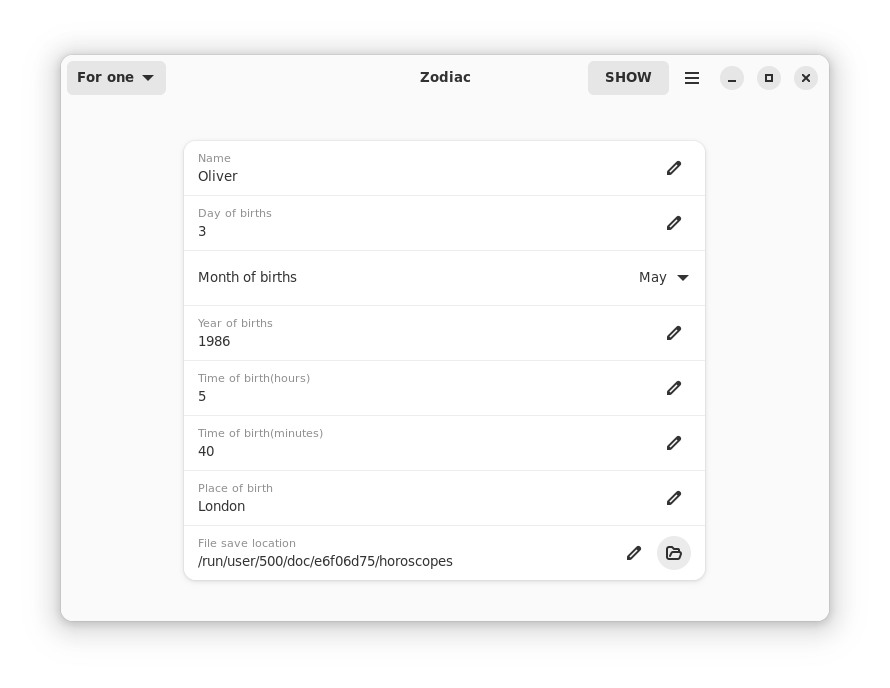
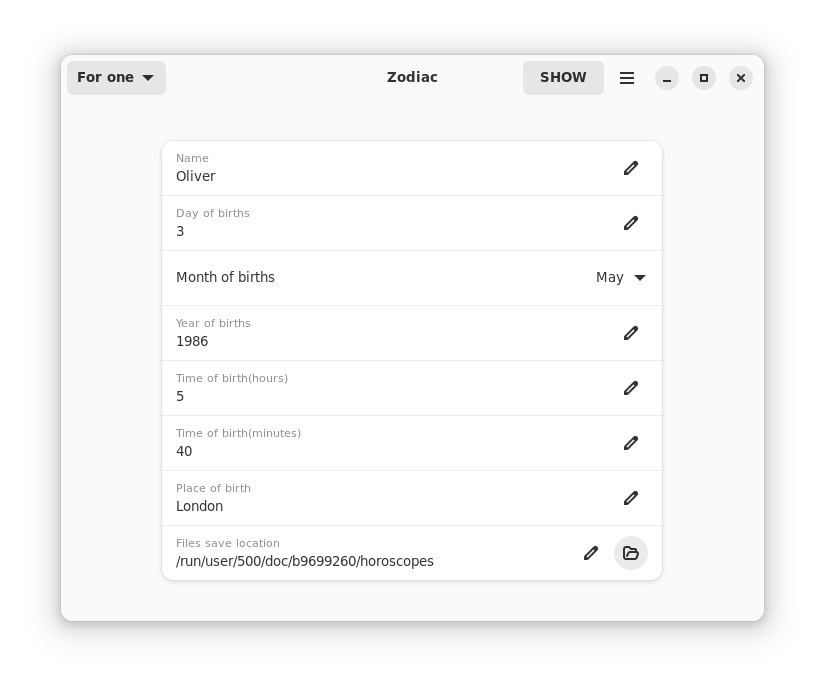
Add files via upload

diff --git a/src/window.py b/src/window.py
@@ -19,6 +19,7 @@
 
 from gi.repository import Adw
 from gi.repository import Gtk
+from gi.repository import Gdk
 from gi.repository import Gio
 from gi.repository import GLib
 from datetime import datetime
@@ -31,7 +32,7 @@ class ZodiacWindow(Adw.ApplicationWindow):
 
     drop_down = Gtk.Template.Child()
     show_button = Gtk.Template.Child()
-    show_image_button = Gtk.Template.Child()
+    open_button = Gtk.Template.Child()
     back_button = Gtk.Template.Child()
     next_button = Gtk.Template.Child()
     save_button = Gtk.Template.Child()
@@ -58,13 +59,13 @@ class ZodiacWindow(Adw.ApplicationWindow):
     entry_place2 = Gtk.Template.Child()
     combo2 = Gtk.Template.Child()
 
-    path_to_file = ""
+    path = ""
 
     def __init__(self, **kwargs):
         super().__init__(**kwargs)
 
         self.show_button.connect("clicked", self.on_show_clicked)
-        self.show_image_button.connect("clicked", self.show_image)
+        self.open_button.connect("clicked", self.on_open_clicked)
         self.back_button.connect("clicked", self.on_back_clicked)
         self.next_button.connect("clicked", self.on_next_clicked)
         self.save_button.connect("clicked", self.show_open_dialog)
@@ -72,7 +73,7 @@ class ZodiacWindow(Adw.ApplicationWindow):
 
         self.back_button.set_visible(False)
         self.next_button.set_visible(False)
-        self.show_image_button.set_visible(False)
+        self.open_button.set_visible(False)
 
         self.settings = Gio.Settings(schema_id="io.github.alexkdeveloper.zodiac")
 
@@ -120,6 +121,8 @@ class ZodiacWindow(Adw.ApplicationWindow):
            self.set_toast(_("Enter valid date and time of birth values"))
            return
 
+        report_text = ""
+
         if self.drop_down.get_selected() == 0:
            subject = AstrologicalSubject(name, year, month, day, hours, minutes, place)
            chart = KerykeionChartSVG(subject, chart_type="Natal")
@@ -158,34 +161,37 @@ class ZodiacWindow(Adw.ApplicationWindow):
 
            subject_names = name+name2
 
-        path = self.entry_save.get_text()
+        self.path = self.entry_save.get_text()
 
-        path_to_report = path+"/"+subject_names+"Report.txt"
+        path_to_report = self.path+"/"+subject_names+"Report.txt"
 
         with open(path_to_report, 'w') as f:
              f.write(report_text)
 
-        chart.set_output_directory(Path(path))
+        chart.set_output_directory(Path(self.path))
         chart.makeSVG()
 
-        self.path_to_file = path+"/"+name+chart.chart_type+"Chart.svg"
+        path_to_chart = self.path+"/"+name+chart.chart_type+"Chart.svg"
 
-        if Path(self.path_to_file).exists():
-            self.set_toast(_("File saved successfully"))
-        else:
-            self.set_toast(_("Failed to save file"))
-            return
-
-        self.svg.set_from_file(self.path_to_file)
+        self.svg.set_from_file(path_to_chart)
 
         self.text.set_text(report_text)
+
+        if Path(path_to_chart).exists() and Path(path_to_report).exists():
+            self.set_toast(_("Files saved successfully"))
+        elif not Path(path_to_chart).exists() and Path(path_to_report).exists():
+            self.set_toast(_("Failed to save svg file"))
+        elif Path(path_to_chart).exists() and not Path(path_to_report).exists():
+            self.set_toast(_("Failed to save txt file"))
+        else:
+            self.set_toast(_("Failed to save files"))
 
         self.stack.set_visible_child(self.result_page)
         self.back_button.set_visible(True)
         self.drop_down.set_visible(False)
         self.next_button.set_visible(False)
         self.show_button.set_visible(False)
-        self.show_image_button.set_visible(True)
+        self.open_button.set_visible(True)
 
     def is_valid_date_time(self, day, month, year, hours, minutes):
         try:
@@ -201,7 +207,7 @@ class ZodiacWindow(Adw.ApplicationWindow):
            self.next_button.set_visible(False)
            self.drop_down.set_visible(True)
            self.show_button.set_visible(True)
-           self.show_image_button.set_visible(False)
+           self.open_button.set_visible(False)
         else:
            if self.stack.get_visible_child() == self.result_page:
               self.stack.set_visible_child(self.data_page2)
@@ -209,14 +215,14 @@ class ZodiacWindow(Adw.ApplicationWindow):
               self.next_button.set_visible(False)
               self.drop_down.set_visible(False)
               self.show_button.set_visible(True)
-              self.show_image_button.set_visible(False)
+              self.open_button.set_visible(False)
            else:
               self.stack.set_visible_child(self.data_page)
               self.back_button.set_visible(False)
               self.next_button.set_visible(True)
               self.drop_down.set_visible(True)
               self.show_button.set_visible(False)
-              self.show_image_button.set_visible(False)
+              self.open_button.set_visible(False)
 
     def on_next_clicked(self, widget):
         self.stack.set_visible_child(self.data_page2)
@@ -224,27 +230,10 @@ class ZodiacWindow(Adw.ApplicationWindow):
         self.next_button.set_visible(False)
         self.drop_down.set_visible(False)
         self.show_button.set_visible(True)
-        self.show_image_button.set_visible(False)
+        self.open_button.set_visible(False)
 
-    def show_image(self, widget):
-        win = Adw.Window()
-        win.set_title(_("Show Image"))
-        win.set_default_size(700, 400)
-
-        image = Gtk.Image()
-        image.set_from_file(self.path_to_file)
-        image.set_vexpand(True)
-        image.set_hexpand(True)
-
-        headerbar = Adw.HeaderBar()
-        headerbar.add_css_class("flat")
-
-        box = Gtk.Box.new(Gtk.Orientation.VERTICAL, 0)
-        box.append(headerbar)
-        box.append(image)
-
-        win.set_content(box)
-        win.show()
+    def on_open_clicked(self, widget):
+        Gtk.show_uri(None, "file://"+self.path, Gdk.CURRENT_TIME)
 
     def set_toast(self, str):
         toast = Adw.Toast(title=str)
